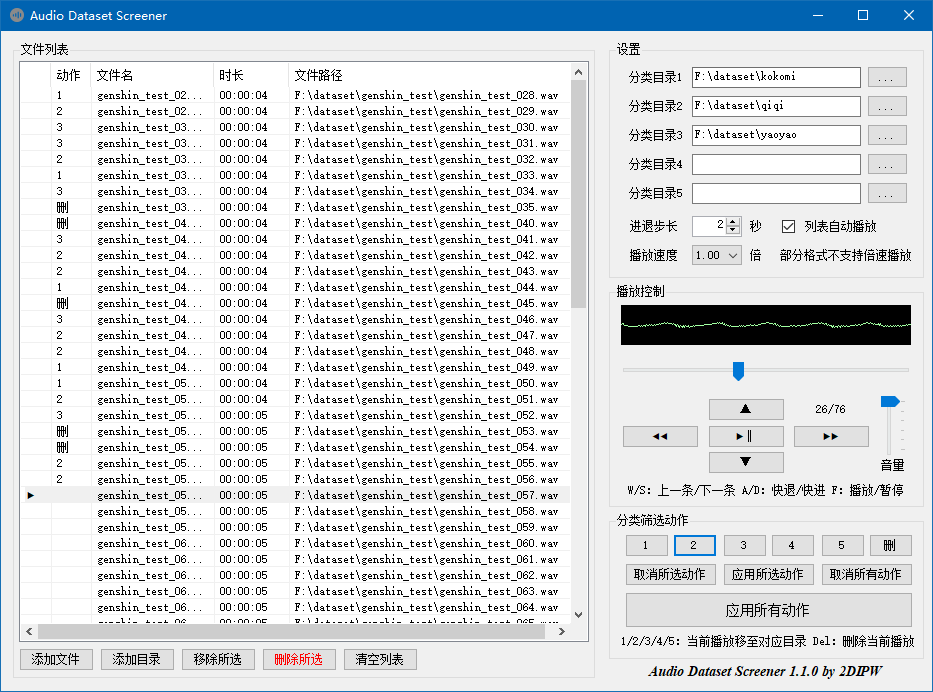
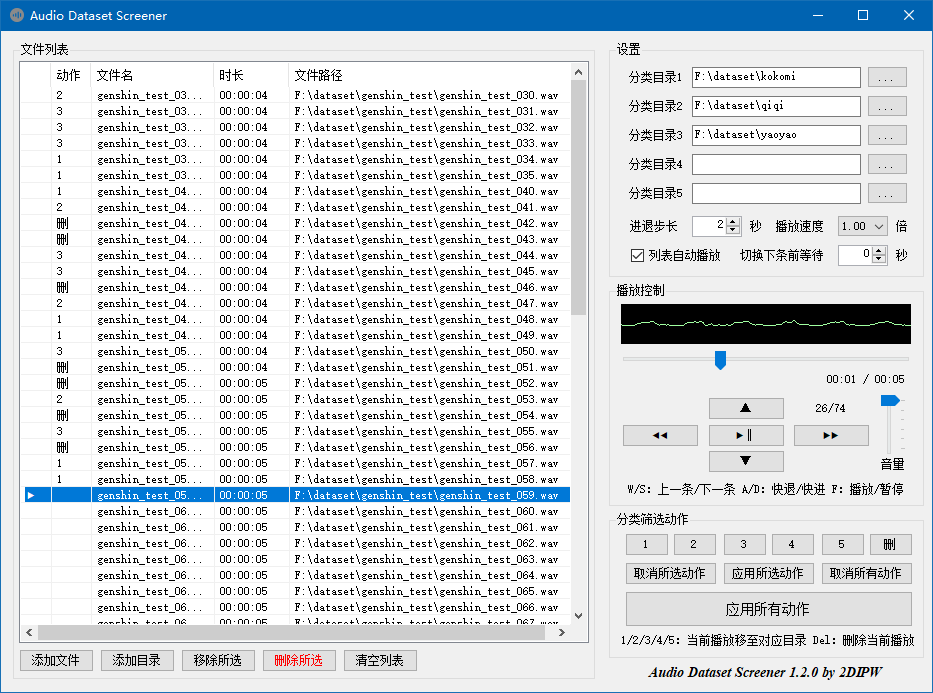
update README

diff --git a/README.md b/README.md
@@ -14,7 +14,7 @@
     * 按“**▷║**”按钮或键盘上的<kbd>F</kbd>键均可开始/暂停播放，文件列表也支持双击播放。
     * 按“**◁◁**”/“**▷▷**”按钮或键盘上的<kbd>A</kbd>/<kbd>D</kbd>键可以快进/快退，步长取决于设置区所设置的“***进退步长***”。
     * 按“**△**”/“**▽**”按钮或键盘上的<kbd>W</kbd>/<kbd>S</kbd>键可以切换上一条/下一条音频文件。
-    * 如果选中了“***列表自动播放***”，则一条播放完毕后会自动切换到下一条。
+    * 如果选中了“***列表自动播放***”，则一条播放完毕后会自动切换到下一条。如果音频比较短，可能会来不及反应，这时可以取消列表自动播放功能或者设置“***切换下条前等待***”时间，在自动切换下一条音频前留一段时间对当前音频做出判断。
     * 受限于WMP的功能限制，“***播放速度***”仅支持部分格式音频文件的倍速播放（如支持\*.wav、\*.mp3等，而不支持\*.flac）
     * 按“**1**”/“**2**”/“**3**”/“**4**”/“**5**”按钮或键盘上的<kbd>1</kbd>/<kbd>2</kbd>/<kbd>3</kbd>/<kbd>4</kbd>/<kbd>5</kbd>键，可将当前播放的文件标记为“待移动至对应目录”，并自动切换至下一条，如果某个分类目录未设置，按下则不会有反应。
         * 比如设置分类目录1为“*D:\kokomi*”，分类目录2为“*D:\qiqi*”，当听到当前播放的音频为kokomi的语音时，按下“1”，当听到当前播放的音频为qiqi的语音时，按下“2”。
